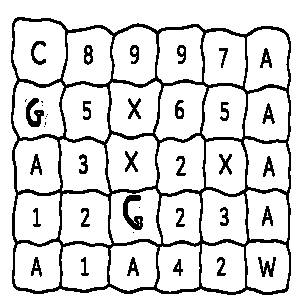
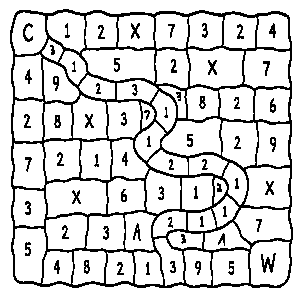
Aggiorna pathfinding e visualizzazione percorsi

Changed region(s): [[0.03, 0.03, 0.99, 0.99]]

diff --git a/ModelloCompleto/hub_master.py b/ModelloCompleto/hub_master.py
@@ -209,52 +209,65 @@ def disegna_percorso(immagine, matrice_3d, percorso, colore): # Funzione disegna
          py = y
 
 if __name__ == "__main__":
-    nome_foto = "mappe/mappa_20.jpg"  # Controlla sempre che il nome combaci!
+    nome_foto = "mappe/mappa15.jpg"  # Controlla sempre che il nome combaci!
 
     img_originale, immagine_matrice_colorata, mat_3d, start, goal = avvia_hub(nome_foto)
     
     # ATTIVAZIONE PATHFINDING E RAPPRESENTAZIONE PERCORSO SU MAPPA
+    mappa_greedy_ucs= immagine_matrice_colorata.copy()
+    mappa_astar_man= immagine_matrice_colorata.copy()
+    mappa_astar_eu= immagine_matrice_colorata.copy()
 
     if start and goal:
      
         print("Colori percorsi:")
         print("A* Manhattan = rosso")
-        print("A* Euclideo = giallo")
+        print("A* Euclideo = marrone")
         print("UCS = verde")
         print("Greedy Manhattan = blu")
         print("Greedy Euclideo = viola/magenta")
         # Passiamo la matrice e i punti scalati al file separato
         percorso_ucs, percorso_astar_manhattan, percorso_astar_euclideo, percorso_greedy_manhattan, percorso_greedy_euclideo = pathfinding.esegui_confronto(mat_3d, start, goal)
+
         
         # DISEGNARE IL PERCORSO SULLA MAPPA
-        # Se A* Manhattan ha trovato un percorso, coloriamo i pixel del percorso di rosso sulla mappa finale
+        # Se A* Manhattan ha trovato un percorso, coloriamo i pixel del percorso di grigio sulla mappa finale
         if percorso_astar_manhattan:
-            disegna_percorso(immagine_matrice_colorata, mat_3d, percorso_astar_manhattan, [255, 0, 0])
+            disegna_percorso(mappa_astar_man, mat_3d, percorso_astar_manhattan, [255, 0, 0])
 
-        # Se A* Euclideo ha trovato un percorso, coloriamo i pixel del percorso di giallo sulla mappa finale        
+        # Se A* Euclideo ha trovato un percorso, coloriamo i pixel del percorso di marrone sulla mappa finale        
         if percorso_astar_euclideo:
-            disegna_percorso(immagine_matrice_colorata, mat_3d, percorso_astar_euclideo, [255, 255, 0])
+            disegna_percorso(mappa_astar_eu, mat_3d, percorso_astar_euclideo, [101, 67, 33] )
         
         # Se UCS ha trovato un percorso, coloriamo i pixel del percorso di verde sulla mappa finale
         if percorso_ucs:
-            disegna_percorso(immagine_matrice_colorata, mat_3d, percorso_ucs, [0, 255, 0])
+            disegna_percorso(mappa_greedy_ucs, mat_3d, percorso_ucs, [0, 255, 0])
 
         # Se Greedy Manhattan ha trovato un percorso, coloriamo i pixel del percorso di blu sulla mappa finale
         if percorso_greedy_manhattan:
-            disegna_percorso(immagine_matrice_colorata, mat_3d, percorso_greedy_manhattan, [0, 0, 255])
+            disegna_percorso(mappa_greedy_ucs, mat_3d, percorso_greedy_manhattan, [0, 0, 255])
 
         # Se Greedy Euclideo ha trovato un percorso, coloriamo i pixel del percorso di viola sulla mappa finale
         if percorso_greedy_euclideo:
-            disegna_percorso(immagine_matrice_colorata, mat_3d, percorso_greedy_euclideo, [255, 0, 255])
+            disegna_percorso(mappa_greedy_ucs, mat_3d, percorso_greedy_euclideo, [255, 0, 255])
                 
-    fig, assi = plt.subplots(1, 2, figsize=(12, 6))
-    assi[0].imshow(cv2.cvtColor(img_originale, cv2.COLOR_BGR2RGB))
-    assi[0].set_title("1. Mappa Analizzata", fontsize=14)
-    assi[0].axis("off")
+    fig, assi = plt.subplots(2, 2, figsize=(16, 10))
+    assi[0,0].imshow(cv2.cvtColor(img_originale, cv2.COLOR_BGR2RGB))
+    assi[0,0].set_title("1. Mappa Analizzata", fontsize=14)
+    assi[0,0].axis("off")
 
-    assi[1].imshow(immagine_matrice_colorata)
-    assi[1].set_title(f"2. Stati Indipendenti ({DIMENSIONE_FINALE}x{DIMENSIONE_FINALE})", fontsize=14)
-    assi[1].axis("off")
+    assi[0,1].imshow(mappa_greedy_ucs)
+    assi[0,1].set_title(f"2. Mappa con UCS, Greedy Manhattan ed Euclideo ({DIMENSIONE_FINALE}x{DIMENSIONE_FINALE})", fontsize=14)
+    assi[0,1].axis("off")
+
+    assi[1,0].imshow(mappa_astar_man)
+    assi[1,0].set_title(f"3. Mappa con A* Manhattan ({DIMENSIONE_FINALE}x{DIMENSIONE_FINALE})", fontsize=14)
+    assi[1,0].axis("off")
+
+    assi[1,1].imshow(mappa_astar_eu)
+    assi[1,1].set_title(f"4. Mappa con A* Euclideo ({DIMENSIONE_FINALE}x{DIMENSIONE_FINALE})", fontsize=14)
+    assi[1,1].axis("off")
+
 
     plt.tight_layout()
     plt.show()

diff --git a/ModelloCompleto/pathfinding.py b/ModelloCompleto/pathfinding.py
@@ -59,21 +59,13 @@ class MappaProblem(Problem):
             if 0 <= nx < self.max_x and 0 <= ny < self.max_y:
                  valore_pixel = self.matrice[ny, nx, 1]
                  if valore_pixel != "X" and valore_pixel != "VUOTO" and valore_pixel != "G":
-                     mosse_valide.append((nx, ny))
+                      mosse_valide.append((nx, ny))
                  elif valore_pixel == "G":
-                     schianto = False
-                     while(valore_pixel == "G"):
+                      while valore_pixel == "G":
                          ny += d[1]
                          nx += d[0]
-                         if 0 <= nx < self.max_x and 0 <= ny < self.max_y: #controllo che non vada fuori dalla mappa
-                             valore_pixel = self.matrice[ny, nx, 1]
-                         else:      #altrimenti vuol dire che si è schiantato con un bordo della mappa
-                             schianto = True 
-                             break
-                     if valore_pixel == "X" or valore_pixel == "VUOTO" or schianto:
-                         mosse_valide.append((nx-d[0], ny-d[1])) #annullo l'ultima mossa se finisco in una x, vuoto o mi sono schiantato (impossibile perché prima ci sarebbe il confine)
-                     else:
-                         mosse_valide.append((nx, ny))
+                         valore_pixel = self.matrice[ny, nx, 1]
+                      mosse_valide.append((nx, ny))
         return mosse_valide
 
     def result(self, state, action):
@@ -105,9 +97,6 @@ class MappaProblem(Problem):
 
         if valore_arrivo.isdigit():
             costo_aggiuntivo = int(valore_arrivo)* self.fattore_ostile
-
-        elif valore_arrivo == "X":   # Non necessario in quanto già viene evitato per definizione su actions
-            costo_aggiuntivo = 999999
 
         elif valore_arrivo == "CONFINE":
             costo_aggiuntivo = self.costo_confine
